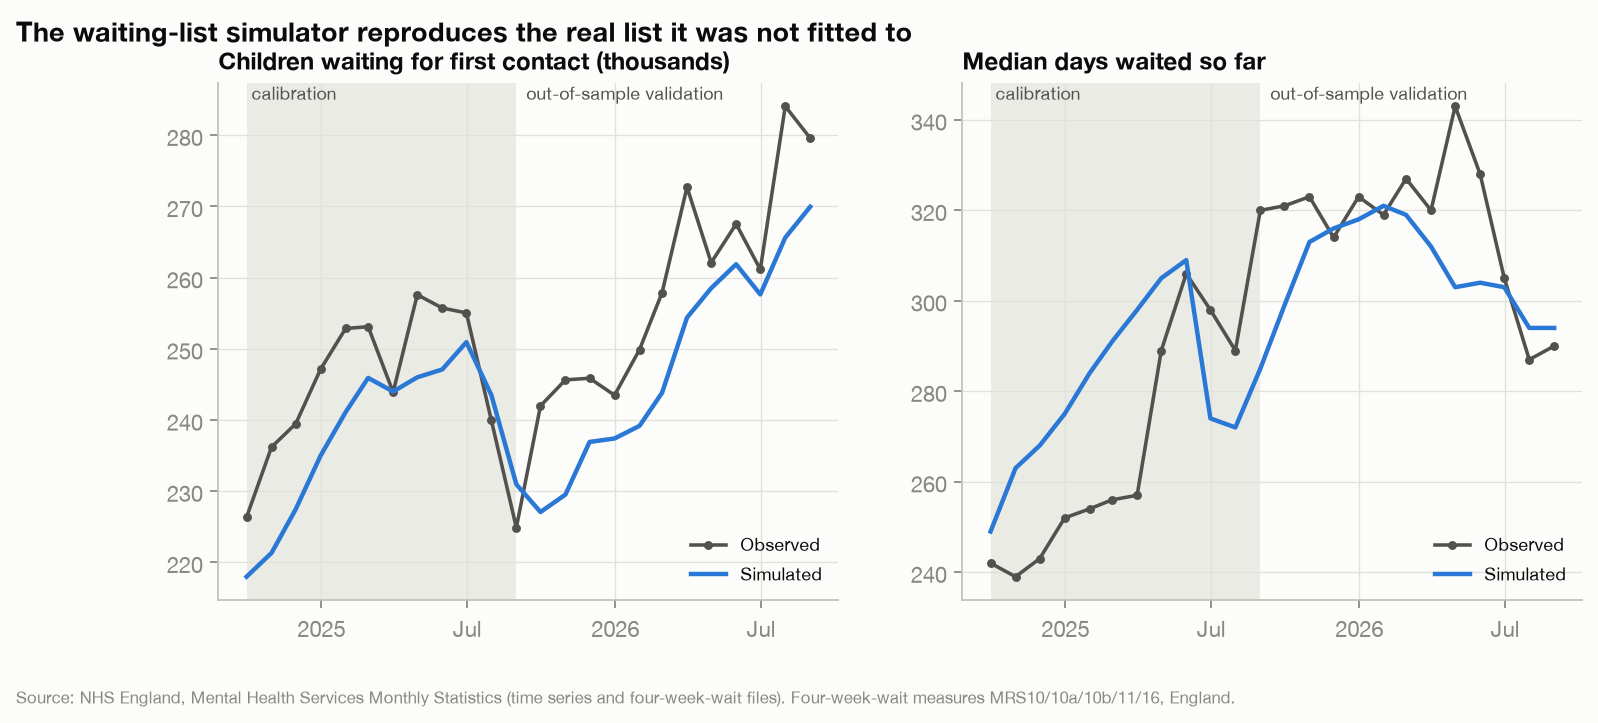
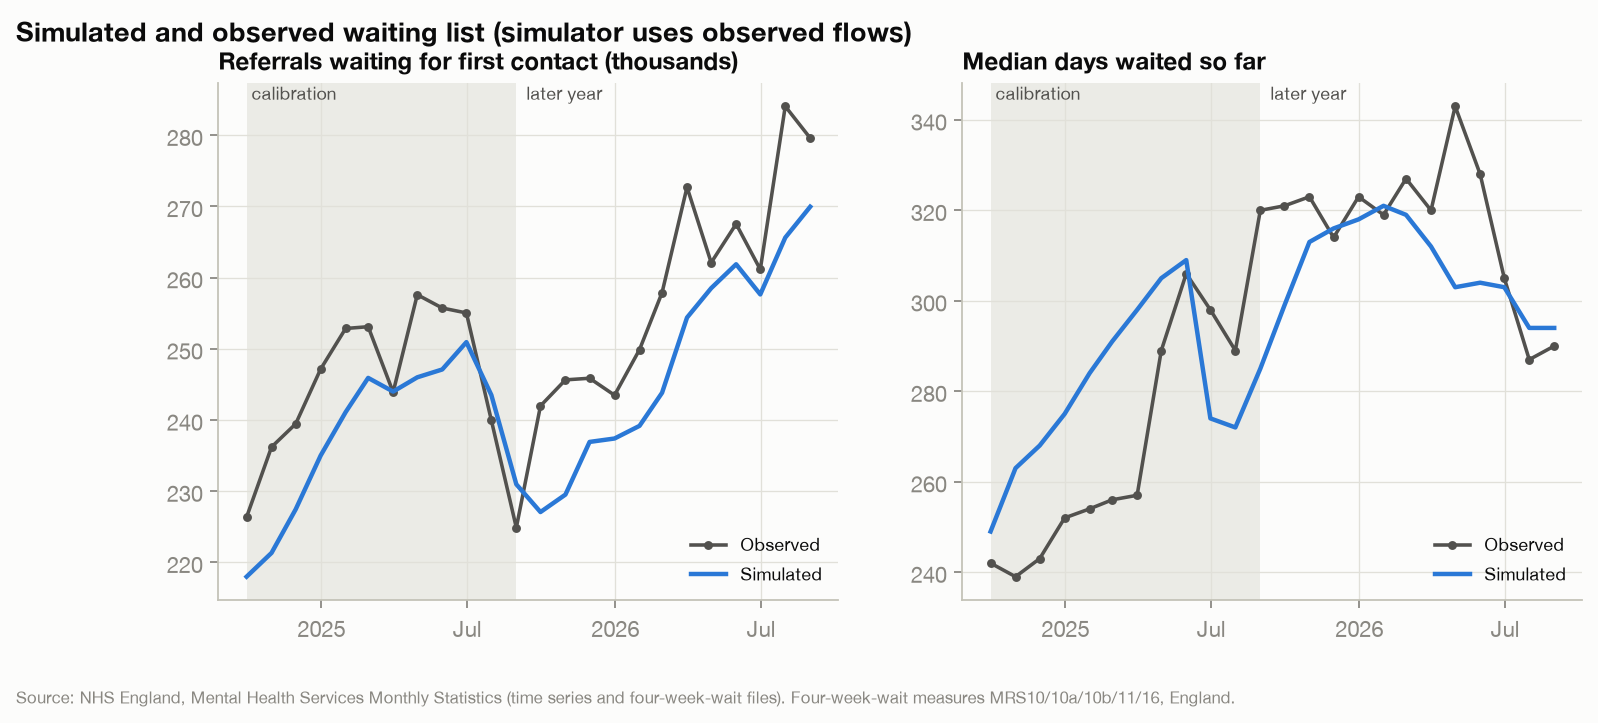
Add no-change benchmark and tone down simulator claims

Changed region(s): [[0.0, 0.0304, 0.5826, 0.1521], [0.7972, 0.1217, 0.9199, 0.1521]]

diff --git a/src/demand_forecasting/analysis.py b/src/demand_forecasting/analysis.py
@@ -109,7 +109,7 @@ def plan_from_observed(wl: pd.DataFrame) -> list[sim.MonthPlan]:
 
 
 def calibrate_and_validate(wl: pd.DataFrame, results: dict) -> tuple[float, float]:
-    """Calibrate (k_serve, k_exit) on one year by grid search, then validate on the following year."""
+    """Calibrate (k_serve, k_exit) on one year by grid search, then check against a no-change benchmark."""
     wl = wl.dropna(subset=["other_exits_per_month"]).reset_index(drop=True)
     start = wl.iloc[1]  # simulation starts from this month-end snapshot
     calib = wl.iloc[2:14]
@@ -152,6 +152,13 @@ def calibrate_and_validate(wl: pd.DataFrame, results: dict) -> tuple[float, floa
         "waiting_list_size": mape(full.waiting[in_valid].to_numpy(), obs.waiting[in_valid].to_numpy()),
         "median_wait": mape(full.median_wait[in_valid].to_numpy(), obs.median_wait_days[in_valid].to_numpy()),
         "p90_wait": mape(full.p90_wait[in_valid].to_numpy(), obs.p90_wait_days[in_valid].to_numpy()),
+    }
+    # Naive comparison: every later month equals the last calibration month
+    last, later = calib.iloc[-1], obs[in_valid.to_numpy()]
+    results["no_change_benchmark_MAPE"] = {
+        "waiting_list_size": mape(last.waiting, later.waiting.to_numpy()),
+        "median_wait": mape(last.median_wait_days, later.median_wait_days.to_numpy()),
+        "p90_wait": mape(last.p90_wait_days, later.p90_wait_days.to_numpy()),
     }
     fig_sim_validation(full, obs, calib.month_end.iloc[-1])
     return k_serve, k_exit
@@ -289,18 +296,18 @@ def fig_age_bands(ref):
 def fig_sim_validation(full, obs, calib_end):
     fig, axes = plt.subplots(1, 2, figsize=(11, 4.2))
     for ax, sim_col, obs_col, title, div in [
-        (axes[0], "waiting", "waiting", "Children waiting for first contact (thousands)", 1000),
+        (axes[0], "waiting", "waiting", "Referrals waiting for first contact (thousands)", 1000),
         (axes[1], "median_wait", "median_wait_days", "Median days waited so far", 1),
     ]:
         ax.plot(obs.month_end, obs[obs_col] / div, color=style.INK_2, lw=1.6, marker="o", ms=3, label="Observed")
         ax.plot(full.month_end, full[sim_col] / div, color=style.BLUE, lw=2, label="Simulated")
         ax.axvspan(full.month_end.min(), calib_end, color=style.GRID, alpha=0.6, lw=0)
         ax.text(full.month_end.min(), ax.get_ylim()[1], " calibration", va="top", fontsize=8, color=style.INK_2)
-        ax.text(calib_end, ax.get_ylim()[1], "  out-of-sample validation", va="top", fontsize=8, color=style.INK_2)
+        ax.text(calib_end, ax.get_ylim()[1], "  later year", va="top", fontsize=8, color=style.INK_2)
         ax.set_title(title, fontsize=11)
         ax.legend(fontsize=8, loc="lower right")
         style.date_axis(ax)
-    fig.suptitle("The waiting-list simulator reproduces the real list it was not fitted to",
+    fig.suptitle("Simulated and observed waiting list (simulator uses observed flows)",
                  x=0.01, ha="left", fontweight="bold")
     style.source_note(fig, SOURCE + " Four-week-wait measures MRS10/10a/10b/11/16, England.")
     fig.savefig(config.FIGURES / "04_simulator_validation.png")
@@ -323,7 +330,7 @@ def fig_scenarios(agg, wl):
         ax.text(g.month_end.iloc[-1], g.waiting.iloc[-1] / 1000, f"  +{u}%", va="center", fontsize=8,
                 color=style.INK_2)
     ax.set_ylim(bottom=0)
-    ax.set_ylabel("Children waiting for first contact (thousands)")
+    ax.set_ylabel("Referrals waiting for first contact (thousands)")
     ax.set_title("List size by first-contact capacity uplift", fontsize=11)
     style.date_axis(ax)
     ax.legend(fontsize=8, loc="lower left")
@@ -342,11 +349,11 @@ def fig_scenarios(agg, wl):
             ax.text(xi, v + 1, f"{v:.0f}", ha="center", fontsize=7.5, color=style.INK_2)
     ax.set_xticks(x, ["+0%", "+10%", "+20%", "+30%"])
     ax.set_xlabel("First-contact capacity uplift")
-    ax.set_ylabel("% of children still waiting who have waited > 52 weeks")
+    ax.set_ylabel("% of waiting referrals waiting > 52 weeks")
     ax.set_title("Who is left waiting after 24 months?", fontsize=11)
     ax.grid(axis="x", visible=False)
     ax.legend(fontsize=7.5, loc="upper left")
-    fig.suptitle("Capacity shrinks the list; prioritisation decides who is left behind",
+    fig.suptitle("Illustrative scenarios: capacity and prioritisation",
                  x=0.01, ha="left", fontweight="bold")
     style.source_note(fig, SOURCE + " Monte Carlo: 40 stochastic runs per scenario; bands = 5th-95th percentile. "
                            "Demand = ensemble forecast.")

diff --git a/src/demand_forecasting/simulate.py b/src/demand_forecasting/simulate.py
@@ -1,6 +1,6 @@
 """Waiting-list simulation for children's mental health services (England).
 
-A discrete-time (daily) stock-and-flow model of the list of children waiting for a
+A discrete-time (daily) stock-and-flow model of the list of referrals waiting for a
 first contact, tracked by how long each child has waited so far ("age" in days):
 
     each day:  new referrals join at age 0             ~ Poisson(arrival rate)
@@ -17,8 +17,9 @@ Referrals closed without a first contact are distributed the same way with their
 parameter k_exit (most closures happen soon after referral - signposting, redirection,
 declined appointments - rather than uniformly across the list).
 
-Both parameters are calibrated so the model reproduces the observed median and
-90th-percentile waits, then validated on a later, unseen year.
+Both parameters are calibrated to the observed median and 90th-percentile waits, then
+compared with a no-change benchmark on a later year. The model is illustrative: see
+docs/limitations_and_ethics.md.
 """
 
 from __future__ import annotations

diff --git a/README.md b/README.md
@@ -7,8 +7,8 @@
 
 > How many children will be referred to NHS mental health services next year? And
 > how much capacity, and what way of prioritising the waiting list, would bring the
-> waits down? This project combines **time-series forecasting** with a **calibrated,
-> validated waiting-list simulation**. It uses 53 months of NHS England referral data
+> waits down? This project combines **time-series forecasting** with an
+> **illustrative waiting-list simulation**. It uses 53 months of NHS England referral data
 > and 29 months of the new children's four-week-wait data.
 
 Part 2 of a three-project portfolio on children and young people's mental health:
@@ -25,21 +25,21 @@ Part 2 of a three-project portfolio on children and young people's mental health
 
 | | Finding |
 |---|---|
-| 📈 | **~1.31 million referrals** of under-18s are forecast for Sep 2026 – Aug 2027 (**+2.3%** on the last 12 months). The ensemble forecast has a **3.9% mean error** in 18 rolling backtests and beats the seasonal-naive benchmark (MASE 0.57 vs 0.83). |
+| 📈 | **~1.31 million referrals** of under-18s are forecast for Sep 2026 – Aug 2027 (**+2.3%** on the last 12 months). The ensemble forecast has a **4.0% mean error** in 18 rolling backtests, against **5.4%** for the seasonal-naive benchmark (MASE 0.57 vs 0.83). |
 | 🏫 | Demand follows the **school calendar**: referrals fall **~35% in August** and dip at Easter and Christmas. 11–15 year olds make up half of all referrals. |
-| ⚖ | The waiting list (**279,604** children at Aug 2026) grows because about **70,400** referral-spells arrive each month, while there are about **52,600** first contacts and about 5% of the list closes without contact. At current capacity it settles near **~353,000**. Holding it level needs **~56,300 first contacts a month (+7%)**. |
-| 🔁 | The real list behaves as if **new referrals are seen first**. The calibrated simulator gives a priority half-life of **~4.6 days**: a referral's chance of being picked halves for every 4.6 days it has waited. With this rule, the model reproduces an unseen year of the real list: **4% error on list size and 3% on median wait**. |
-| 🚨 | **Capacity alone leaves long-waiters behind.** Under current prioritisation, +30% capacity shrinks the list to ~102k, but **84%** of the children still waiting will have waited over a year. **Ring-fencing 25% of appointments for the longest waiters** cuts that to **14%** with no extra capacity, and to **0%** with +20%. |
+| ⚖ | The waiting list (**279,604** open referral-spells at Aug 2026) grows because about **70,400** referral-spells arrive each month, while there are about **52,600** first contacts and about 5% of the list closes without contact. A simple steady-state estimate has it settling near **~353,000** at current capacity, and needing **~56,300 first contacts a month (+7%)** to hold level. |
+| 🔁 | The real list behaves as if **new referrals are seen first**. The calibrated simulator gives a priority half-life of **~4.6 days**: a referral's chance of being picked halves for every 4.6 days it has waited. This parameter is only weakly identified. **The simulator has no demonstrated predictive skill:** in the later year its median-wait error was 3.4%, against 3.5% for assuming no change, and its 90th-percentile error was 12.1% against 5.4%. The list-size match (4.2%) is partly circular, because exits are derived from the observed list. The model was also revised after looking at that year, so it isn't a clean holdout test. |
+| 🚨 | **Illustrative scenarios only:** in this model, adding 30% capacity under newest-first prioritisation shrinks the list to ~102k but leaves **84%** of it waiting over a year. With no extra capacity, reserving 25% of appointments for the longest waiters lowers the share waiting over a year from **51%** to **14%** after 24 months, at the cost of fewer appointments for new referrals. These figures follow from the model's assumptions and are not forecasts. |
 
-<p align="center"><img src="reports/figures/05_capacity_scenarios.png" width="900" alt="Left: waiting list size under 0-30% capacity uplift. Right: share waiting over 52 weeks by prioritisation policy"></p>
+<p align="center"><img src="reports/figures/05_capacity_scenarios.png" width="900" alt="Illustrative scenarios. Left: waiting list size under 0-30% capacity uplift. Right: share waiting over 52 weeks by prioritisation policy"></p>
 
 <details>
-<summary><b>More figures</b> (forecast, backtest accuracy, seasonality, simulator validation)</summary>
+<summary><b>More figures</b> (forecast, backtest accuracy, seasonality, simulator check)</summary>
 
 <img src="reports/figures/01_forecast.png" width="850" alt="Monthly referrals with 12-month forecast and 80% interval">
 <img src="reports/figures/02_backtest_accuracy.png" width="900" alt="MASE by model and MAPE by horizon from rolling-origin cross-validation">
 <img src="reports/figures/03_seasonality_and_age.png" width="900" alt="Seasonal profile and referrals by age band">
-<img src="reports/figures/04_simulator_validation.png" width="900" alt="Simulated vs observed waiting list and median wait, calibration and validation periods">
+<img src="reports/figures/04_simulator_validation.png" width="900" alt="Simulated vs observed waiting list and median wait, calibration and later periods">
 </details>
 
 ---
@@ -55,7 +55,7 @@ Part 2 of a three-project portfolio on children and young people's mental health
 | **Hierarchical forecasting** | Age-band hierarchy reconciled with **OLS/WLS optimal combination** (Hyndman et al.) and bottom-up | [`models.py`](src/demand_forecasting/models.py) |
 | **Time-series decomposition** | **STL** (robust) seasonal decomposition | [`analysis.py`](src/demand_forecasting/analysis.py) |
 | **Simulation / operational research** | Daily **discrete-time stochastic queue** tracking each child's wait; priority-weighted capacity allocation (water-filling); **Monte Carlo** (Poisson arrivals and capacity); FIFO, newest-first and ring-fenced policies; fluid steady-state approximation | [`simulate.py`](src/demand_forecasting/simulate.py) |
-| **Calibration and validation** | 496-point **grid-search calibration** against observed median/p90 waits on one year, with a parsimony rule; **out-of-sample validation** on the following year | [`analysis.py`](src/demand_forecasting/analysis.py) |
+| **Calibration and checking** | 496-point **grid-search calibration** against observed median/p90 waits on one year, with a parsimony rule; comparison with a **no-change benchmark** on the following year | [`analysis.py`](src/demand_forecasting/analysis.py) |
 | **Quality assurance** | **pytest** (conservation laws, known answers, reconciliation coherence); **pandera** data contracts (continuity, identities); **ruff**; **GitHub Actions CI** | [`tests/`](tests/) |
 
 **Stack:** Python 3.11 · DuckDB · pandas · NumPy · statsmodels · SciPy · Matplotlib · pandera · pytest · ruff · GitHub Actions
@@ -113,7 +113,7 @@ make analysis   # re-run models and simulation from the committed processed data
 
 ## Documentation
 
-- [Methodology](docs/methodology.md): data pipeline, model specifications, backtest design, simulator equations, calibration and validation
+- [Methodology](docs/methodology.md): data pipeline, model specifications, backtest design, simulator equations, calibration and benchmark check
 - [Data dictionary](docs/data_dictionary.md)
 - [Data sources and licensing](docs/data_sources.md)
 - [Limitations and ethics](docs/limitations_and_ethics.md): what the simulator does and does not represent

diff --git a/docs/methodology.md b/docs/methodology.md
@@ -13,7 +13,7 @@ gov.uk bank holidays JSON                            ─┘
                        data/processed/*.csv (committed) + working-day calendar
                                                          │
                  analysis.py ── models.py   (5 forecasters, rolling backtest, reconciliation)
-                             └─ simulate.py (calibrate → validate → Monte Carlo scenarios)
+                             └─ simulate.py (calibrate → benchmark check → Monte Carlo scenarios)
                                                          │
                                  reports/figures/*.png + reports/results.json
 ```
@@ -32,7 +32,7 @@ gov.uk bank holidays JSON                            ─┘
 
 $$ W_t - W_{t-3} = A_{t-2:t} - C_{t-2:t} - X_{t-2:t} \quad\Rightarrow\quad X = A - C - \Delta W $$
 
-where W is children waiting, A is referral-spells started, C is first contacts and X
+where W is referral-spells waiting, A is referral-spells started, C is first contacts and X
 is referrals closed or withdrawn before a first contact. `tests/test_data_contracts.py`
 asserts that this identity holds exactly in the processed data.
 
@@ -80,7 +80,7 @@ for short series.
 ## 4. Waiting-list simulator
 
 ### State and dynamics
-The state is a vector n(a): the number of children waiting who have waited a days
+The state is a vector n(a): the number of referral-spells that have waited a days
 (a = 0 … 4,000). Each simulated day:
 
 1. **Arrivals:** A ~ Poisson(λ) children join at a = 0.
@@ -99,9 +99,10 @@ The published median (MRS10a) and 90th percentile (MRS10b) define a log-normal
 distribution of waiting times: σ = ln(p90/median)/1.2816, μ = ln(median). This is
 discretised and scaled to MRS10.
 
-### Calibration → validation
-- **Inputs:** the observed monthly arrivals, first contacts and exit rate. They are
-  not fitted, so the **list size** is a pure test of the flow accounting.
+### Calibration and benchmark check
+- **Inputs:** the observed monthly arrivals, first contacts and exit rate. The exit
+  rate is derived from the observed change in the list, so the **list-size** match is
+  partly circular and is not evidence of predictive skill.
 - **Fitted:** (k_serve, k_exit), by grid search (31 × 16 = 496 points). The objective
   is the mean squared relative error of the simulated median **and** 90th-percentile
   waits over **Sep 2024 – Aug 2025**.
@@ -109,9 +110,19 @@ discretised and scaled to MRS10.
   first", but can't tell strong from extreme. A **parsimony rule** picks the smallest
   k_serve within 5% of the best loss: **k_serve = 0.15/day (half-life 4.6 days),
   k_exit = 0**.
-- **Out-of-sample validation, Sep 2025 – Aug 2026:** MAPE of **4.2%** on list size,
-  **3.4%** on median wait and **12.1%** on 90th-percentile wait. Random order (loss
-  0.77) and FIFO (loss 1.24) fit far worse than the calibrated rule (0.016).
+- **Later year, Sep 2025 – Aug 2026,** using that year's observed flows (MAPE):
+
+  | Measure | Simulator | No change since Aug 2025 |
+  |---|---|---|
+  | List size (partly circular) | 4.2% | 13.0% |
+  | Median wait | 3.4% | 3.5% |
+  | 90th-percentile wait | 12.1% | 5.4% |
+
+  The simulator is no better than the benchmark on median wait and worse on the 90th
+  percentile. Its structure was also revised after an early look at this year (a separate
+  exit priority, then the parsimony rule), so this is **not a clean holdout test**.
+- In the calibration year, random order (loss 0.77) and FIFO (loss 1.24) fit far worse
+  than the calibrated rule (0.016), so the data do favour a newest-first pattern.
 
 ### Scenarios
 - **Horizon:** 24 months from Aug 2026, starting from the observed list (279,604;

diff --git a/docs/limitations_and_ethics.md b/docs/limitations_and_ethics.md
@@ -12,6 +12,10 @@
   low.
 
 ## Simulator
+- **No demonstrated predictive skill.** On the later year it is no better than assuming
+  no change for median wait (3.4% vs 3.5%) and worse for the 90th percentile (12.1% vs
+  5.4%). The list-size match is partly circular, and the model was revised after looking
+  at that year. Treat every scenario as an illustration of the assumptions.
 - **One national queue.** In reality there are hundreds of provider waiting lists
   with different pathways (neurodevelopmental, eating disorders, crisis). National
   aggregates hide local variation; see Project 1 for the geography.
@@ -27,8 +31,8 @@
 - **First contact is not treatment.** The model stops the clock at a first contact,
   not at the second contact or full "meaningful help" (MRS08).
 - **FIFO is a mathematical bound, not a recommendation.** Clinically urgent
-  children must always be seen first. The ring-fenced policy is the realistic
-  option: part of capacity reserved for long-waiters, with clinical prioritisation
+  children must always be seen first. The ring-fenced policy is a less
+  extreme illustration: part of capacity reserved for long-waiters, with clinical prioritisation
   for the rest.
 - **The scenarios hold behaviour fixed.** They assume extra capacity doesn't change
   referral rates (induced demand) or exit rates.

diff --git a/docs/data_dictionary.md b/docs/data_dictionary.md
@@ -50,4 +50,4 @@ size with its 5th/95th percentiles, median wait, and the share waiting over 4 an
 ## `reports/results.json`
 This file holds every number in the README: data coverage, the SARIMA order,
 backtest metrics, the forecast, hierarchy MAPE, simulator calibration and
-validation, and scenario inputs and outputs.
+benchmark check, and scenario inputs and outputs.
